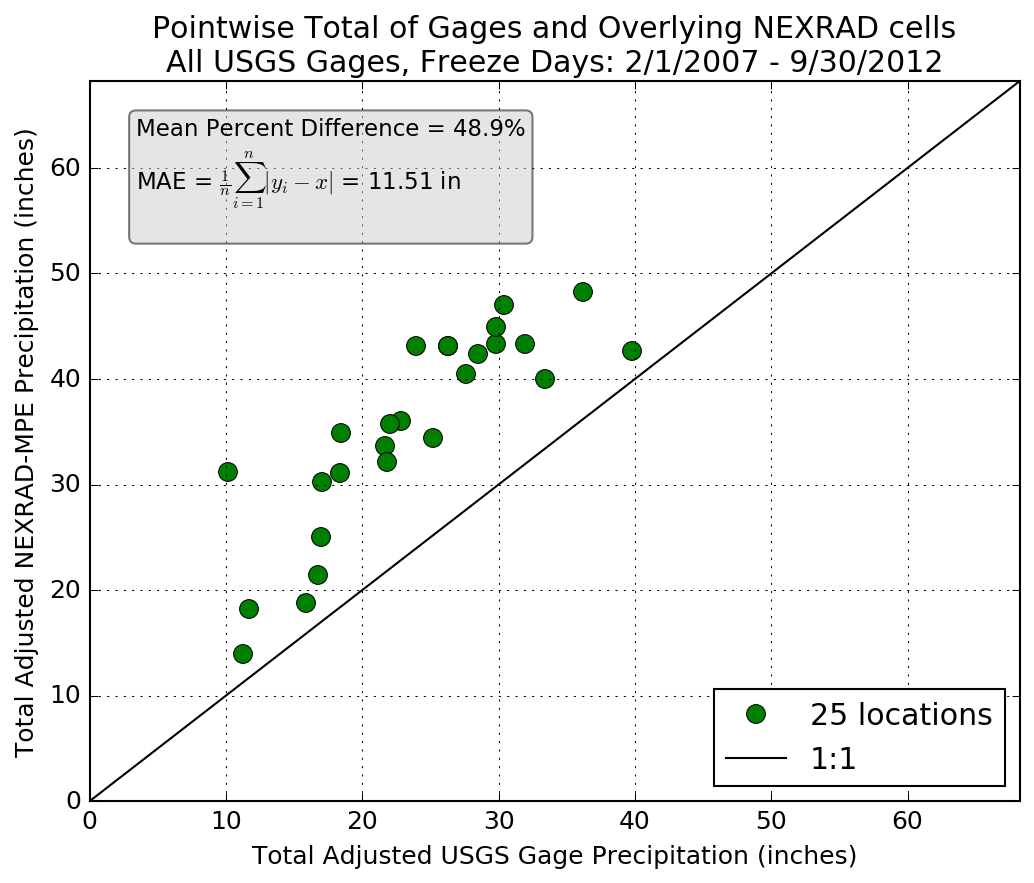
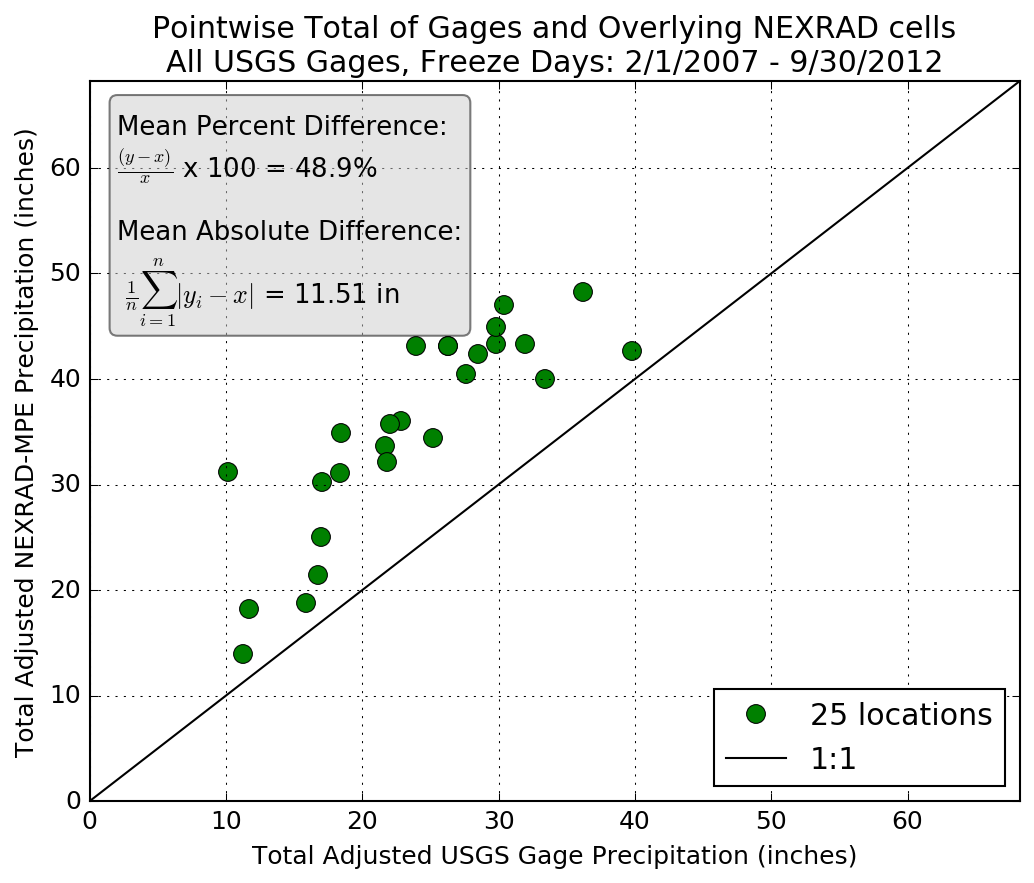
updated summary files for pointwise total plots

Changed region(s): [[0.0928, 0.0917, 0.5261, 0.3975]]

diff --git a/plot_scripts/plot_gage_nexrad_correl.py b/plot_scripts/plot_gage_nexrad_correl.py
@@ -10,8 +10,10 @@ import datetime
 from dateutil import parser
 import matplotlib
 import matplotlib.pyplot as plt
+import calc_errors
 plt.ioff()
-maindir = os.getcwd()[:-27]
+os.chdir("..")
+maindir = os.getcwd() + os.sep
 
 criteria = 'Freeze' # choicea are 'Freeze' or 'Thaw' #see find_freeze_days.py for more info
 gage_types = ['All','Heated','Non-Heated']
@@ -23,13 +25,13 @@ else:
     scf = 1.0
 
 ################# create a list of days to use in the analysis ########################
-ystart = 2002 # begin data grouping
+ystart = 2007 # begin data grouping
 yend = 2012 # end data grouping
 start = datetime.datetime(ystart, 2, 1, 0, 0)
 finish = datetime.datetime(yend, 9, 30, 23, 0)
 
 for gage_type in gage_types:
-    fstatus = open(maindir + '\\figures\\final\\status_files\\' + gage_type + '_stations_stats_' + str(ystart) + '_' + str(yend) + '.txt', 'w')
+    fstatus = open(maindir + '\\figures\\final\\status_files\\usgs_' + gage_type + '_stations_stats_' + criteria + '_' + str(ystart) + '_' + str(yend) + '.txt', 'w')
     fstatus.write(str(start) + ' - ' + str(finish) + '\n')
     fstatus.write('Station' + '\t' + 'Missing days in analysis\n')
     print str(start) + ' - ' + str(finish)
@@ -156,7 +158,6 @@ for gage_type in gage_types:
     ax1.set_xlim([min_axis,maximum + 20])
     
     ################### Calculate Error Statistics and add to plot ################
-    import calc_errors
     pbias, mae, ns = calc_errors.print_errors(in_gage,in_nex)
     textstr = '\nMean Percent Difference:\n' + r'$\frac{(y-x)}{x}$' + ' x 100 = ' + str('%.1f' % pbias) +'%\n\n' + 'Mean Absolute Difference:\n ' + r'$\frac{1}{n}\sum_{i=1}^n\vert y_i - x\vert$ = '+ str('%.2f' % mae) + ' in'  #Mean Absolute Difference
     # these are matplotlib.patch.Patch properties
